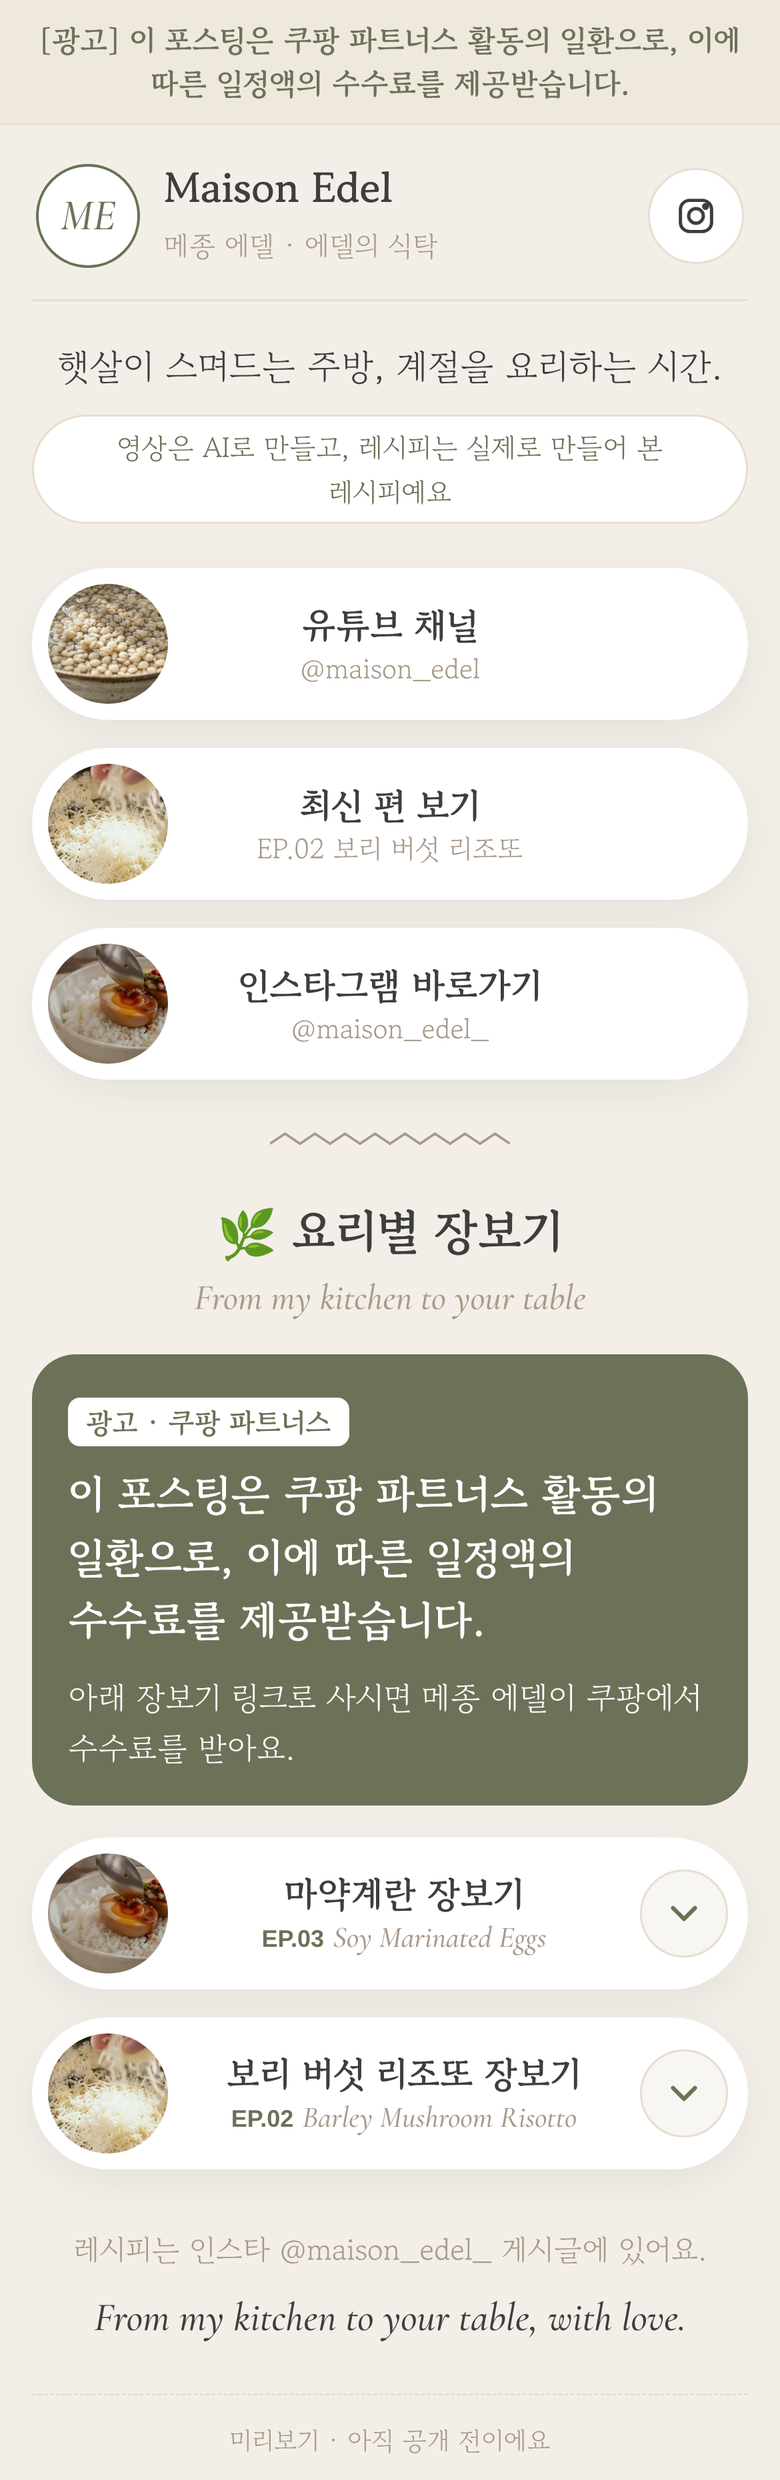
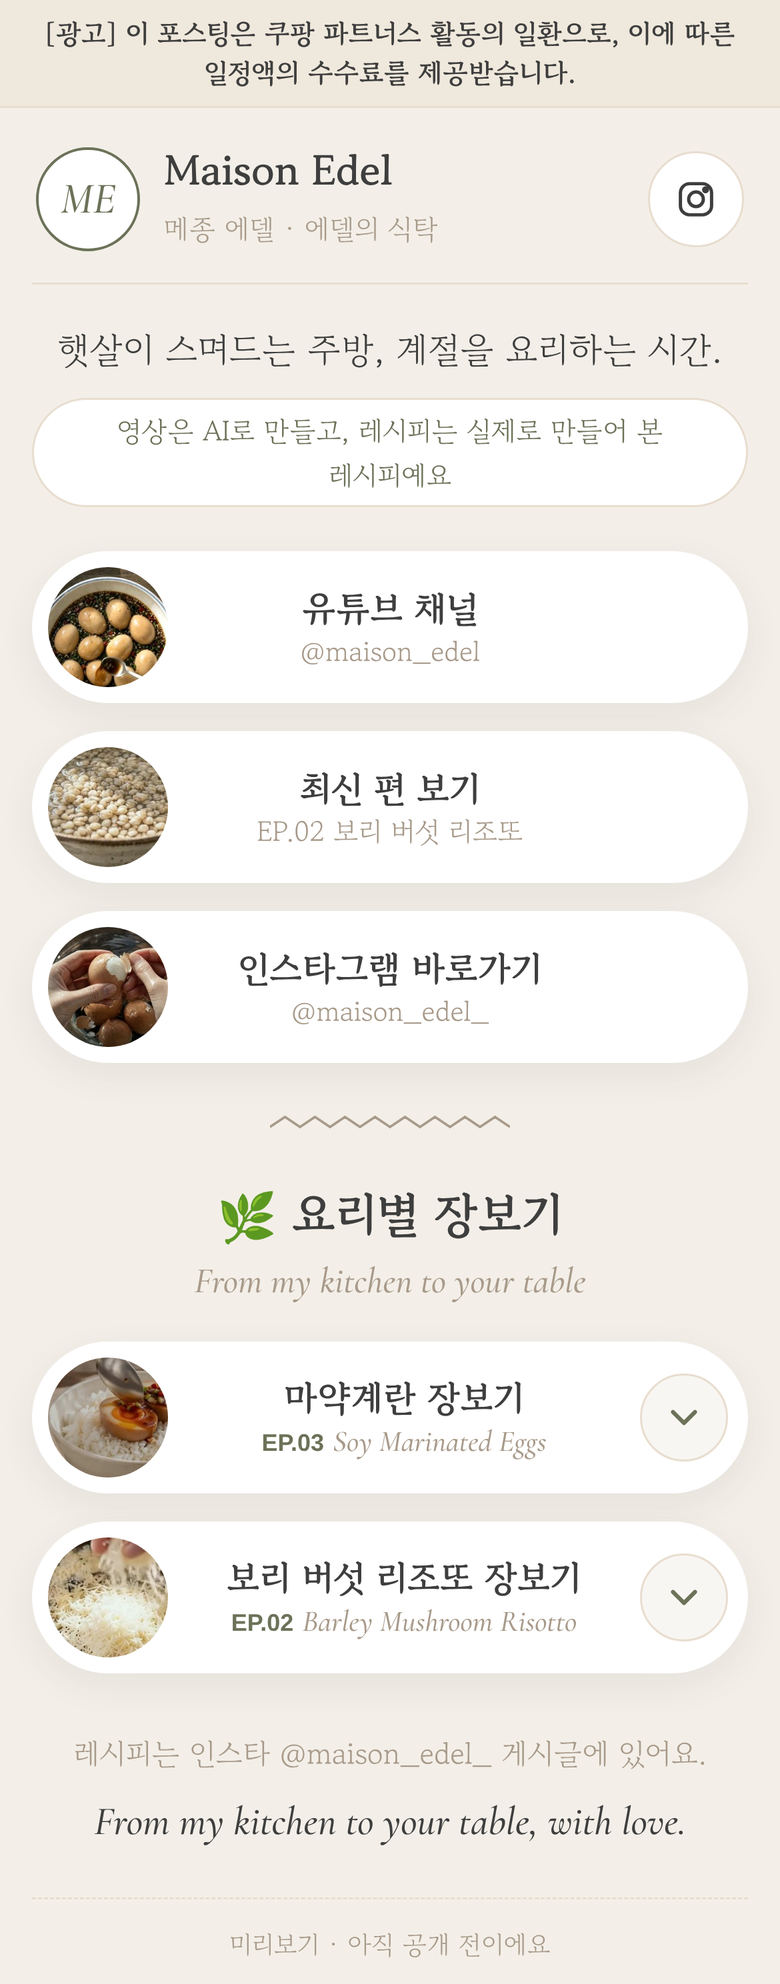
장보기 페이지 5판: 큰 대가 표시 상자 빼고 맨 위 띠 글씨 줄이기, 버튼 사진 겹침 없애기
Claude-Session: https://claude.ai/code/session_01Ethqw5r7mmktrKzGmpSNVy

diff --git a/company/초안/메종에델-장보기/index.html b/company/초안/메종에델-장보기/index.html
@@ -35,10 +35,10 @@
   /* 1. 맨 위 대가 표시 띠: 흘러가지 않고 한 번에 다 읽히게 (줄바꿈) */
   .band {
     position: sticky; top: 0; z-index: 5;
-    background: var(--band); color: var(--olive);
+    background: var(--band); color: var(--charcoal);
     border-bottom: 1px solid var(--beige);
-    padding: 9px 16px; text-align: center;
-    font-size: 15px; font-weight: 700; line-height: 1.45;
+    padding: 7px 16px; text-align: center;
+    font-size: 13.5px; font-weight: 700; line-height: 1.45;
   }
 
   .wrap { max-width: 480px; margin: 0 auto; padding: 0 16px 36px; }
@@ -80,11 +80,6 @@
   .shop-head { text-align: center; }
   .shop-head h2 { font-size: 24px; margin: 0; }
   .shop-head .en { color: var(--taupe); font-size: 18px; margin: 0; }
-  .notice { background: var(--olive); color: var(--white); border-radius: 22px; padding: 18px 18px 16px; margin-top: 14px; }
-  .notice .t { display: inline-block; font-size: 14px; font-weight: 700; background: var(--white); color: var(--olive);
-               border-radius: 6px; padding: 1px 9px; margin-bottom: 8px; }
-  .notice .must { margin: 0; font-size: 21px; font-weight: 700; line-height: 1.5; }
-  .notice .easy { margin: 10px 0 0; font-size: 16px; }
 
   /* 사진이 큰 카드: 사진 위, 글 아래 */
   /* 요리 블록: 위 버튼과 같은 알약 모양 (왼쪽 동그란 작은 사진 + 가운데 요리 이름 + 오른쪽 ⌄), 누르면 아래로 재료 버튼이 펼쳐짐 */
@@ -147,15 +142,15 @@
   <!-- 2. 알약 버튼 -->
   <div class="stack">
     <a class="card pill" href="https://youtube.com/@maison_edel" target="_blank" rel="noopener">
-      <span class="thumb"><img src="사진/작은-보리.jpg" alt=""></span>
+      <span class="thumb"><img src="사진/작은-마약계란-위에서.jpg" alt=""></span>
       <span class="tx">유튜브 채널<small>@maison_edel</small></span>
     </a>
     <a class="card pill" href="https://www.youtube.com/shorts/t_sjAIX4AUM" target="_blank" rel="noopener">
-      <span class="thumb"><img src="사진/작은-리조또.jpg" alt=""></span>
+      <span class="thumb"><img src="사진/작은-보리.jpg" alt=""></span>
       <span class="tx">최신 편 보기<small>EP.02 보리 버섯 리조또</small></span>
     </a>
     <a class="card pill" href="https://www.instagram.com/maison_edel_" target="_blank" rel="noopener">
-      <span class="thumb"><img src="사진/작은-마약계란.jpg" alt=""></span>
+      <span class="thumb"><img src="사진/작은-껍질까기.jpg" alt=""></span>
       <span class="tx">인스타그램 바로가기<small>@maison_edel_</small></span>
     </a>
   </div>
@@ -169,11 +164,6 @@
       <p class="en">From my kitchen to your table</p>
     </div>
 
-    <div class="notice" role="note">
-      <span class="t">광고 · 쿠팡 파트너스</span>
-      <p class="must">이 포스팅은 쿠팡 파트너스 활동의 일환으로, 이에 따른 일정액의 수수료를 제공받습니다.</p>
-      <p class="easy">아래 장보기 링크로 사시면 메종 에델이 쿠팡에서 수수료를 받아요.</p>
-    </div>
 
     <div class="stack">
       <!-- 블록 1: 마약계란 (EP.03) -->

diff --git a/company/초안/메종에델-장보기/근거-링크목록.md b/company/초안/메종에델-장보기/근거-링크목록.md
@@ -3,6 +3,7 @@
 - 미리보기: `index.html` (같은 폴더, 재료는 `장보기-재료.js`에서 읽음. 화면3은 `?preview`로 링크 자리를 보이게 찍음) · 휴대폰 화면 캡처: `미리보기캡처/화면1-처음.png`, `화면2-장보기-접힘.png`, `화면3-마약계란-펼침.png`, `전체-접힘.png`
 - 참고한 배치: 회장님 캡처 `참고-회장님캡처-인포크링크.png` (배치만 참고, 그 계정 이름·사진·로고는 안 씀)
 - 쓴 돈 0원. 동그란 작은 사진은 이미 있는 영상에서 장면을 잘라 씀 (마약계란 = EP.03 인스타용 영상 15.6초, 리조또 = EP.02 영상 파마산 장면)
+- **5판 (회장님 수정 11/2)**: 장보기 칸 가운데 큰 올리브색 대가 표시 상자 삭제(맨 위 띠와 겹침). 맨 위 띠 글씨 13.5px 굵게, 글자는 짙은 차콜(#3E3E3E)·바탕 베이지(#EFE8DC)로 확실히 구분, 원문 전체가 잘리지 않고 스크롤해도 맨 위에 붙어 있음(공정위 "쉽게 보이는 곳에, 알아보기 쉽게"). 펼친 목록 맨 위 작은 표시 줄은 그대로. 위쪽 버튼 사진 겹침 없앰: 유튜브 = EP.03 위에서 본 마약계란 그릇, 최신 편 = EP.02 불린 보리쌀, 인스타 = EP.03 껍질 까는 손(장면5) — 암웨이 팬·칼 안 보임, 0원
 - 재료 근거·사진 출처는 이 문서에만 적음 (index.html·장보기-재료.js는 공개 페이지와 같이 나가므로 내부 주소·노션 이름을 쓰지 않음)
 - **4판 (회장님 수정 11/2)**: 요리 블록을 큰 사진 카드 대신 위 버튼과 같은 알약 모양으로 (왼쪽 동그란 작은 사진 + 가운데 요리 이름 + 오른쪽 ⌄, 누르면 재료 버튼이 펼쳐짐). 큰 사진 파일은 지움. "공구·새 편 일정" 칸은 통째로 뺌 — **일정 칸은 공구 시작 때 다시** 넣음 (전 판 코드는 커밋 a5941a4에 있음)
 - 공개(배포)·인스타 프로필 링크는 결재 전에는 하지 않음
@@ -100,7 +101,7 @@
   - [ ] 공개 금지어(수입·보너스·직급·"스폰서")와 "추천"·"꼭" 같은 말이 없는지
   - [ ] 요리 이름이 `index.html`의 요리 카드(data-dish)와 똑같은지
   - [ ] `장보기-재료.js`에 노션 주소·회장님 정보 같은 내부 정보를 적지 않았는지 (공개 페이지와 같이 나가는 파일)
-  - [ ] 대가 표시 3곳(맨 위 띠, 장보기 칸 큰 상자, 펼친 목록 맨 위 줄)이 그대로인지
+  - [ ] 대가 표시 2곳(맨 위 띠: 원문 전체·13.5px 굵게·짙은 글자·스크롤해도 붙어 있음 / 펼친 목록 맨 위 "쿠팡 파트너스 링크 · 수수료를 받아요")이 그대로인지
 - **나중 (개발팀 몫, 지금은 하지 않음)**: 공개한 뒤 하루 한 번 노션 표를 읽어 `장보기-재료.js`를 자동으로 고치는 방법
   - 노션 연결 열쇠(통합 토큰)가 필요하고, **그 열쇠는 환경 변수로만 받음** (채팅·파일·노션에 쓰지 않음)
   - 자동으로 바꿔도 쿠팡 주소가 아닌 링크, 암웨이 이름이 든 재료는 넣지 않게 걸러야 함

diff --git a/company/업무일지.md b/company/업무일지.md
@@ -66,3 +66,4 @@
 | 2026-11-02 | 메종에델 모음 페이지 2판: 책 버튼·EP.01 블록 뺌(암웨이 규정, 회장님 결정), 크롬 Claude 계획 지우고 링크 7개 회장님 직접, 요리 블록 펼치기 방식, 리조또 사진 선명하게, 캡처 다시 | 커머스팀 | 품질관리팀 재검수 |
 | 2026-11-02 | 노션 작업실 아래 "🛒 장보기 재료" 표 만들고 7개 넣음(https://app.notion.com/p/4feffa0f44b94d38828a1a2267d3ced4). 장보기 페이지가 재료를 `장보기-재료.js` 한 곳에서 읽고, 쿠팡 링크 빈 재료는 숨김 (3판) | 커머스팀 | 2판 검수 결과 뒤 3판 검수 |
 | 2026-11-02 | 장보기 페이지 4판: 요리 블록을 알약 버튼(작은 사진+이름+⌄, 펼치기)으로, 일정 칸 뺌(공구 시작 때 다시), 공개 파일에서 노션 주소·내부 메모 뺌, 반영 점검표 추가 | 커머스팀 | 4판 검수 |
+| 2026-11-02 | 장보기 페이지 5판: 가운데 큰 대가 표시 상자 삭제, 맨 위 띠 13.5px·짙은 글자로, 위쪽 버튼 사진 겹침 없앰(EP.03·EP.02 다른 장면) | 커머스팀 | 5판 검수 |
